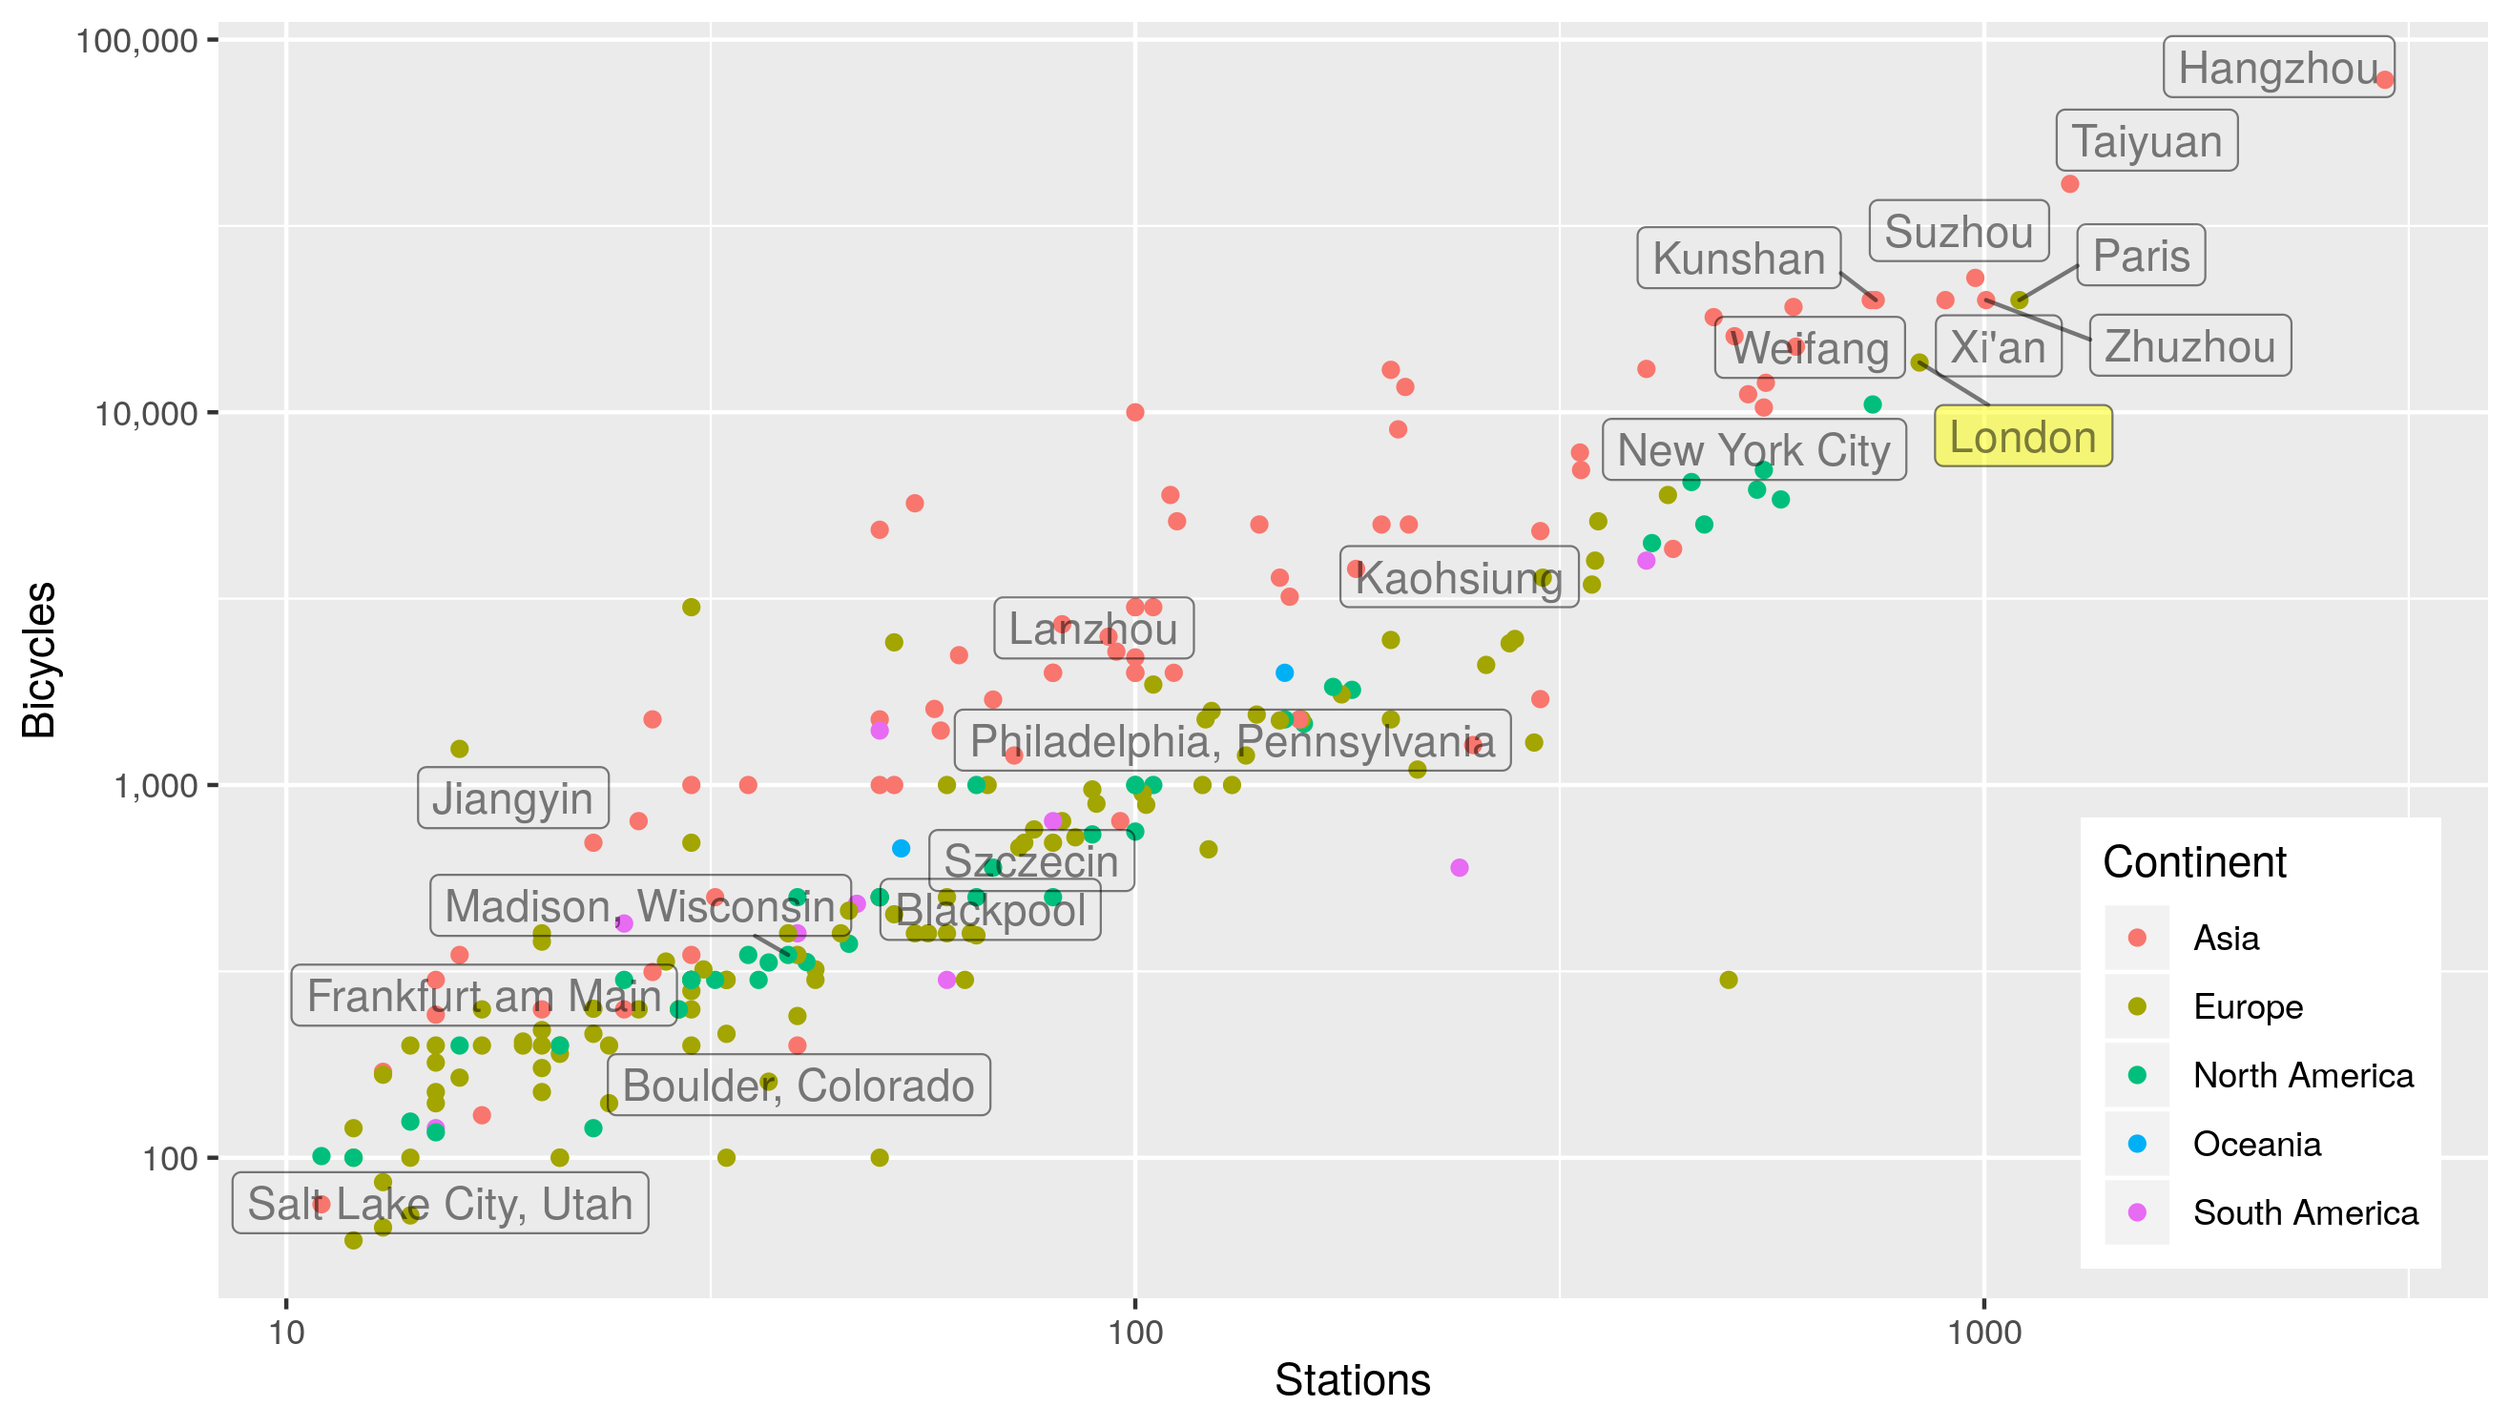
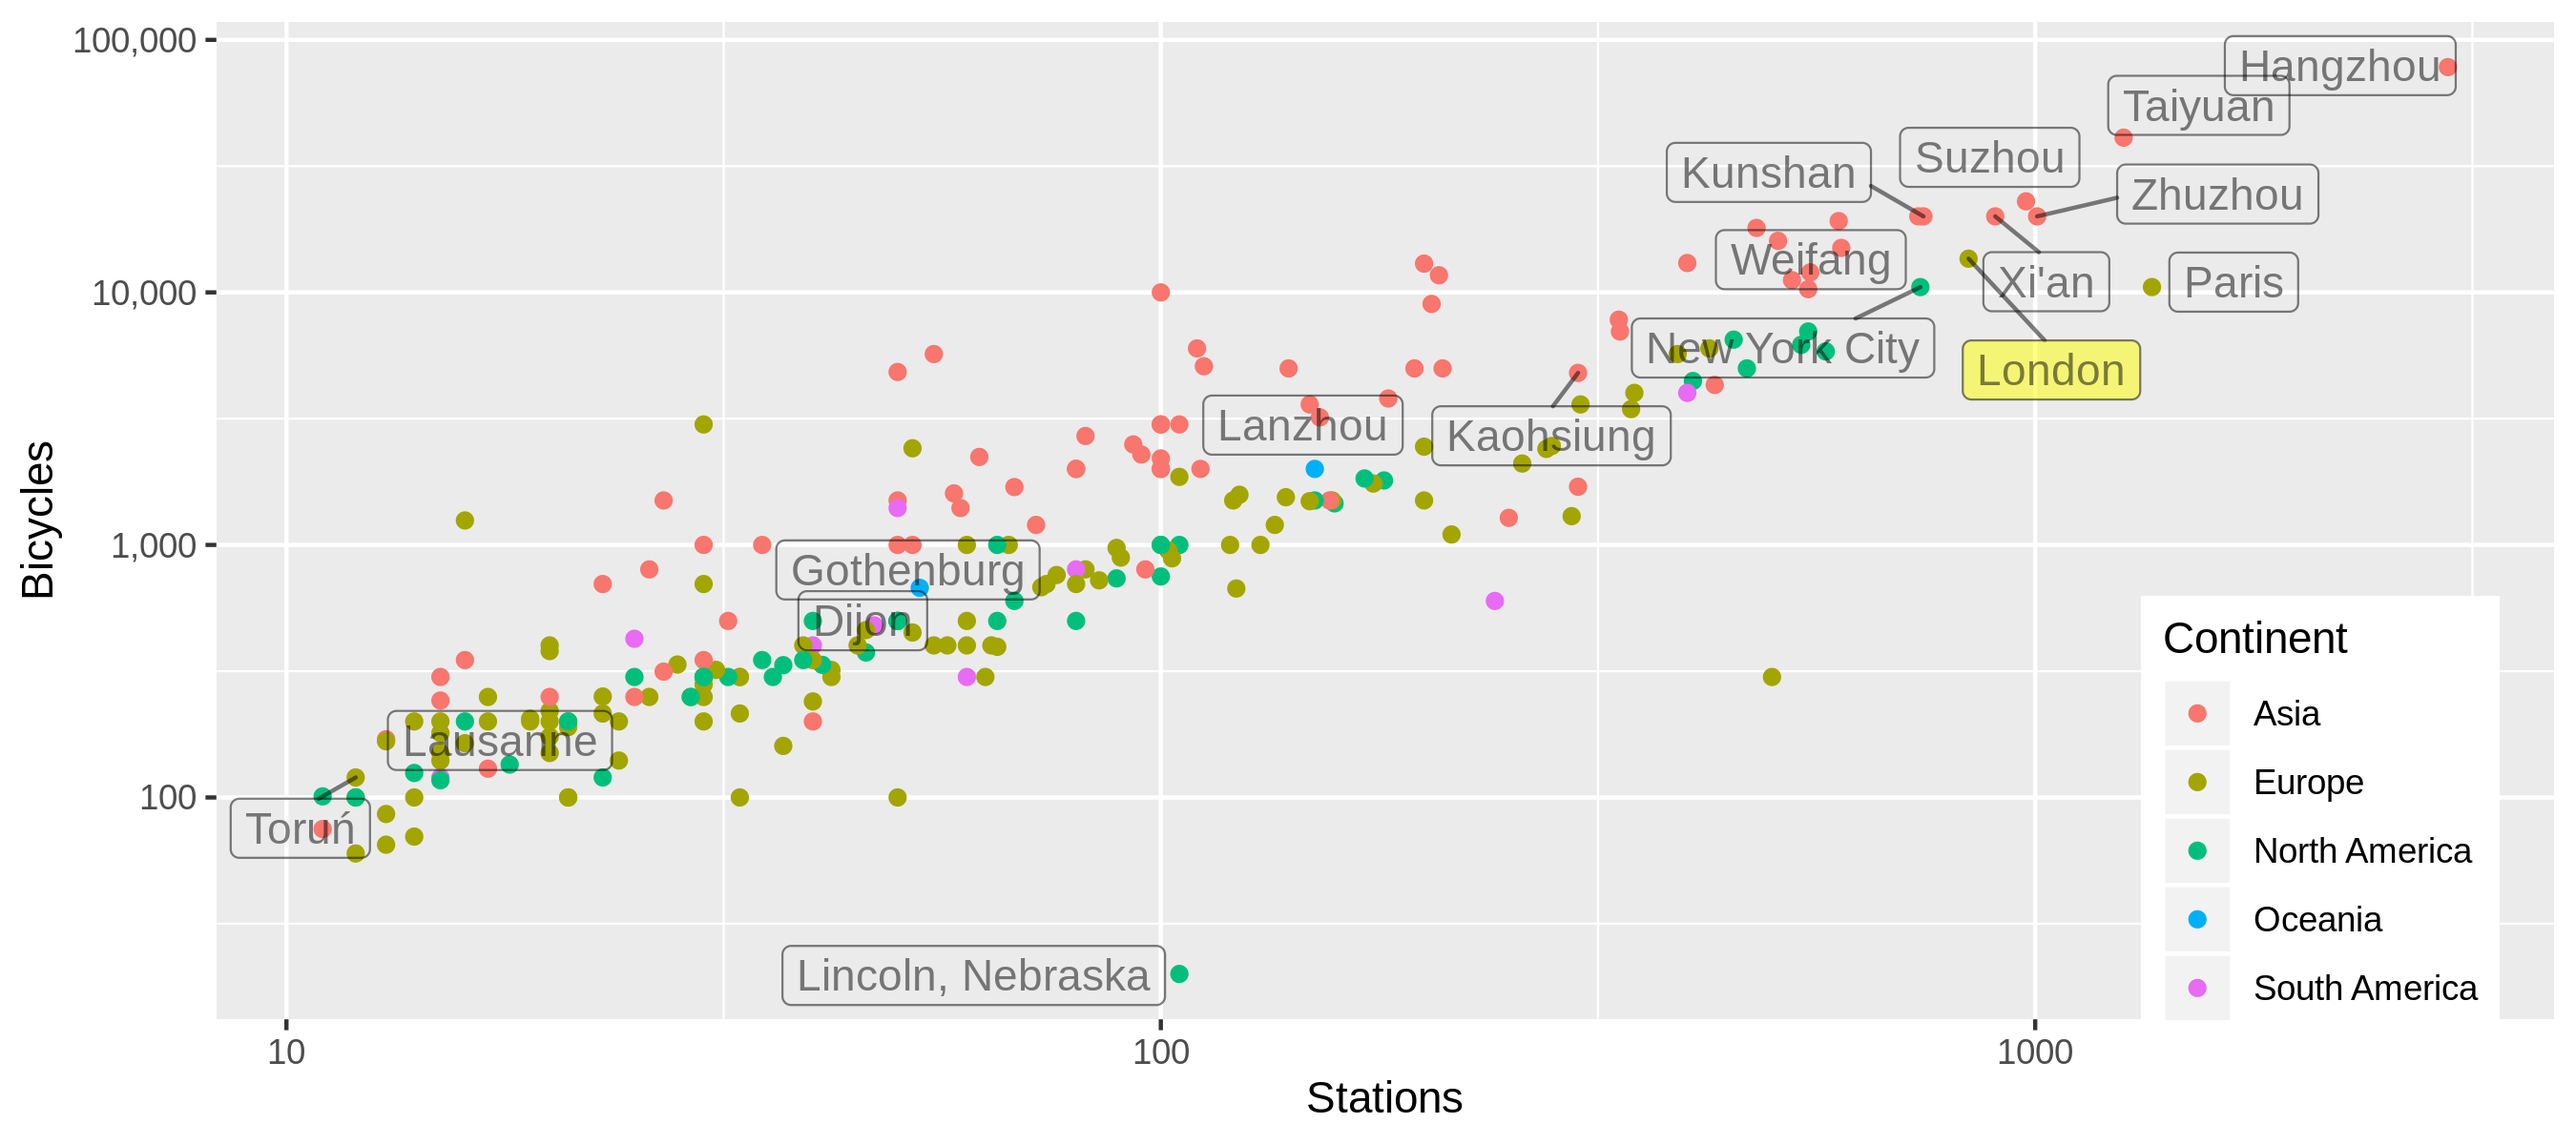
Update global stations plots

diff --git a/README.md b/README.md
@@ -78,10 +78,6 @@ To reproduce all the results in the paper, you can make the plan with:
 Visualise the build and a sample of the data from the project as
 follows:
 
-    #> Warning in value[[3L]](cond): Could not parse file 'README.Rmd'. drake
-    #> dependencies could not be extracted from code chunks: duplicate label 'global-
-    #> growth'
-
 <img src="README_files/figure-gfm/unnamed-chunk-4-1.png" width="90%" style="display: block; margin: auto;" />
 
     #>            start_time           stop_time start_station_id end_station_id
